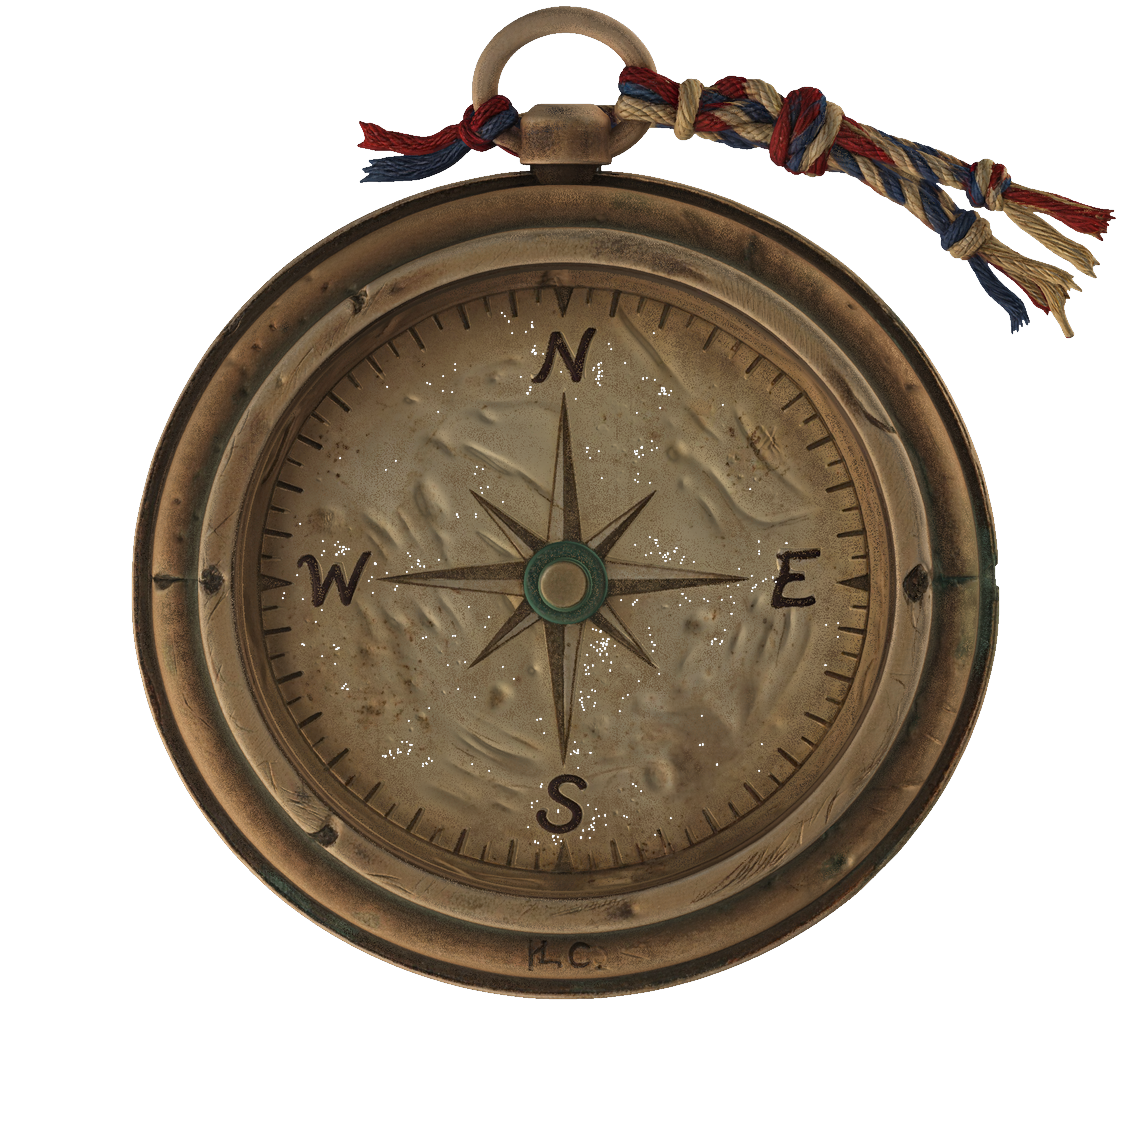
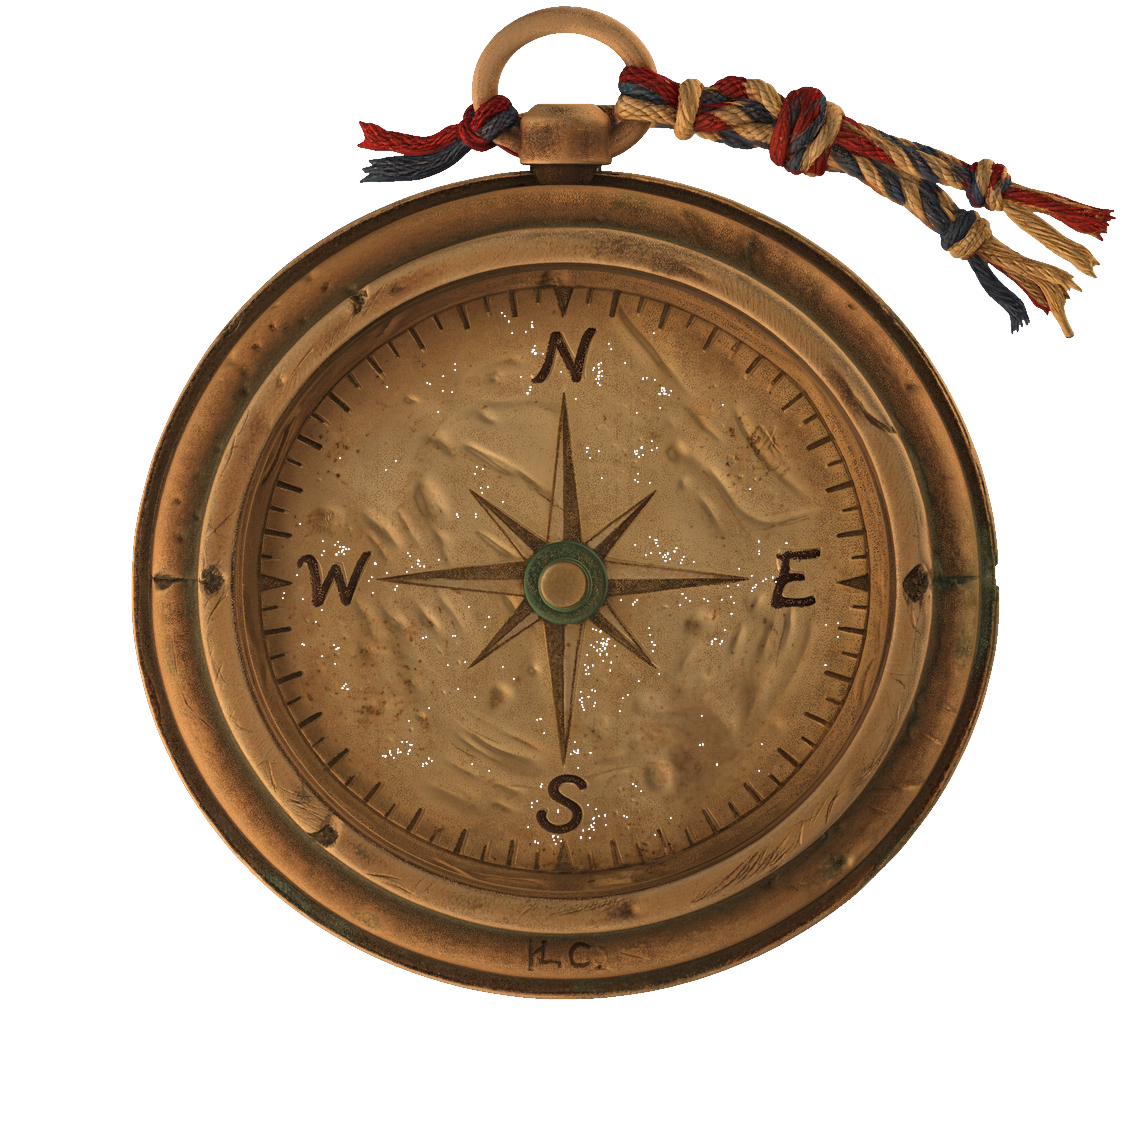
Compass sits in the scene light; pivot mount fixed, only the blade turns
- Sprites regraded with the keyframe's warm amber key (top-left bright,
  lower-right fall-off, gentle lift) so the brass and needle read as
  props under the same lamp as the board.
- The needle sprite is split: compass-needle.png is now the blade alone
  and compass-mount.png is the brass crossbar, drawn unrotated between
  the body and the blade — the mount stays perfectly aligned while the
  blade (and its cast shadow) deflects.
Tags coil-v41 / bar-v20 / solenoid-v32.

Changed region(s): [[0.1239, 0.0, 0.8363, 0.8053]]

diff --git a/tool/js/main.js b/tool/js/main.js
@@ -4,20 +4,20 @@
 // The ?v= tags force browsers past GitHub Pages' 10-minute cache whenever a
 // deploy changes these modules — bump them together with the tags in
 // tool/index.html and coil/index.html.
-import { createGL } from './render/gl.js?v=coil-v40';
-import { SceneLayers } from './render/scene.js?v=coil-v40';
-import { FilingRenderer, FLOATS_PER } from './render/filings.js?v=coil-v40';
-import { Overlays } from './render/overlays.js?v=coil-v40';
+import { createGL } from './render/gl.js?v=coil-v41';
+import { SceneLayers } from './render/scene.js?v=coil-v41';
+import { FilingRenderer, FLOATS_PER } from './render/filings.js?v=coil-v41';
+import { Overlays } from './render/overlays.js?v=coil-v41';
 import { Homography, loadCalibration, saveCalibration } from './render/homography.js';
-import { CalibrationUI } from './ui/calibration.js?v=coil-v40';
-import { buildPanel, diagnosticsHTML } from './ui/panel.js?v=coil-v40';
+import { CalibrationUI } from './ui/calibration.js?v=coil-v41';
+import { buildPanel, diagnosticsHTML } from './ui/panel.js?v=coil-v41';
 import { TimelineUI } from './ui/timelineui.js';
-import { PRESETS } from './ui/presets.js?v=coil-v40';
-import { DEFAULT_UI } from './ui/defaults.js?v=coil-v40';
+import { PRESETS } from './ui/presets.js?v=coil-v41';
+import { DEFAULT_UI } from './ui/defaults.js?v=coil-v41';
 import { Recorder } from './record/recorder.js';
 import { DEFAULT_PARAMS } from './sim/units.js';
-import { buildVariantConfig } from './variant.js?v=coil-v40';
-import { CompassOverlay } from './render/compass.js?v=coil-v40';
+import { buildVariantConfig } from './variant.js?v=coil-v41';
+import { CompassOverlay } from './render/compass.js?v=coil-v41';
 
 const variant = buildVariantConfig(window.MAGNETISM_VARIANT || 'straight');
 
@@ -61,7 +61,7 @@ async function boot() {
   rebuildHomography();
 
   // worker
-  app.worker = new Worker(new URL('./sim/worker.js?v=coil-v40', import.meta.url), { type: 'module' });
+  app.worker = new Worker(new URL('./sim/worker.js?v=coil-v41', import.meta.url), { type: 'module' });
   app.worker.onmessage = onWorkerMessage;
   await workerReady();
   pushRenderOptions();

diff --git a/tool/js/render/compass.js b/tool/js/render/compass.js
@@ -4,7 +4,7 @@
 // models (tool/assets/compass-*.png), all dial-centered so the needle
 // pivots exactly on the rose hub. Each layer is a homography-warped quad,
 // so the prop sits in the board's perspective like set dressing.
-import { compileProgram, loadTexture } from './gl.js?v=coil-v40';
+import { compileProgram, loadTexture } from './gl.js?v=coil-v41';
 
 const VS = `#version 300 es
 layout(location=0) in vec2 aPos;   // keyframe image px
@@ -55,12 +55,13 @@ export class CompassOverlay {
 
   async load() {
     const gl = this.gl;
-    const [body, needle, shadow] = await Promise.all([
+    const [body, needle, mount, shadow] = await Promise.all([
       loadTexture(gl, this.base + 'compass-body.png'),
-      loadTexture(gl, this.base + 'compass-needle.png'),
+      loadTexture(gl, this.base + 'compass-needle.png'),   // blade only
+      loadTexture(gl, this.base + 'compass-mount.png'),    // static pivot bar
       loadTexture(gl, this.base + 'compass-shadow.png'),
     ]);
-    this.body = body; this.needle = needle; this.shadow = shadow;
+    this.body = body; this.needle = needle; this.mount = mount; this.shadow = shadow;
     this.ready = true;
   }
 
@@ -105,7 +106,9 @@ export class CompassOverlay {
     this.drawQuad(this.shadow, homog, res,
       center[0] + size * 0.045, center[1] + size * 0.075, half, 0, [1, 1, 1, 1]);
     this.drawQuad(this.body, homog, res, center[0], center[1], half, 0, [1, 1, 1, 1]);
-    // needle shadow on the dial, then the needle itself
+    // pivot mount stays FIXED on the dial; only the blade turns. The blade
+    // shadow draws over the mount, since the blade sits above it.
+    this.drawQuad(this.mount, homog, res, center[0], center[1], nHalf, 0, [1, 1, 1, 1]);
     this.drawQuad(this.needle, homog, res,
       center[0] + size * 0.012, center[1] + size * 0.020, nHalf, angle, [0, 0, 0, 0.35]);
     this.drawQuad(this.needle, homog, res, center[0], center[1], nHalf, angle, [1, 1, 1, 1]);

diff --git a/bar/index.html b/bar/index.html
@@ -4,7 +4,7 @@
 <meta charset="utf-8">
 <title>Magnetism Stage — Bar Magnet Field Simulator</title>
 <meta name="viewport" content="width=device-width, initial-scale=1">
-<link rel="stylesheet" href="../tool/css/app.css?v=bar-v19">
+<link rel="stylesheet" href="../tool/css/app.css?v=bar-v20">
 </head>
 <body>
 <div id="app">
@@ -45,6 +45,6 @@
 <script>
   window.MAGNETISM_VARIANT = 'bar';
 </script>
-<script type="module" src="../tool/js/main.js?v=bar-v19"></script>
+<script type="module" src="../tool/js/main.js?v=bar-v20"></script>
 </body>
 </html>

diff --git a/coil/index.html b/coil/index.html
@@ -4,7 +4,7 @@
 <meta charset="utf-8">
 <title>Magnetism Stage — Coil Field Simulator</title>
 <meta name="viewport" content="width=device-width, initial-scale=1">
-<link rel="stylesheet" href="../tool/css/app.css?v=coil-v40">
+<link rel="stylesheet" href="../tool/css/app.css?v=coil-v41">
 </head>
 <body>
 <div id="app">
@@ -45,6 +45,6 @@
 <script>
   window.MAGNETISM_VARIANT = 'coil';
 </script>
-<script type="module" src="../tool/js/main.js?v=coil-v40"></script>
+<script type="module" src="../tool/js/main.js?v=coil-v41"></script>
 </body>
 </html>

diff --git a/solenoid/index.html b/solenoid/index.html
@@ -4,7 +4,7 @@
 <meta charset="utf-8">
 <title>Magnetism Stage — Solenoid Field Simulator</title>
 <meta name="viewport" content="width=device-width, initial-scale=1">
-<link rel="stylesheet" href="../tool/css/app.css?v=solenoid-v31">
+<link rel="stylesheet" href="../tool/css/app.css?v=solenoid-v32">
 </head>
 <body>
 <div id="app">
@@ -45,6 +45,6 @@
 <script>
   window.MAGNETISM_VARIANT = 'solenoid';
 </script>
-<script type="module" src="../tool/js/main.js?v=solenoid-v31"></script>
+<script type="module" src="../tool/js/main.js?v=solenoid-v32"></script>
 </body>
 </html>

diff --git a/tool/index.html b/tool/index.html
@@ -4,7 +4,7 @@
 <meta charset="utf-8">
 <title>Magnetism Stage — Iron Filings Simulator</title>
 <meta name="viewport" content="width=device-width, initial-scale=1">
-<link rel="stylesheet" href="css/app.css?v=coil-v40">
+<link rel="stylesheet" href="css/app.css?v=coil-v41">
 </head>
 <body>
 <div id="app">
@@ -42,6 +42,6 @@
     <div id="timeline-events"></div>
   </footer>
 </div>
-<script type="module" src="js/main.js?v=coil-v40"></script>
+<script type="module" src="js/main.js?v=coil-v41"></script>
 </body>
 </html>